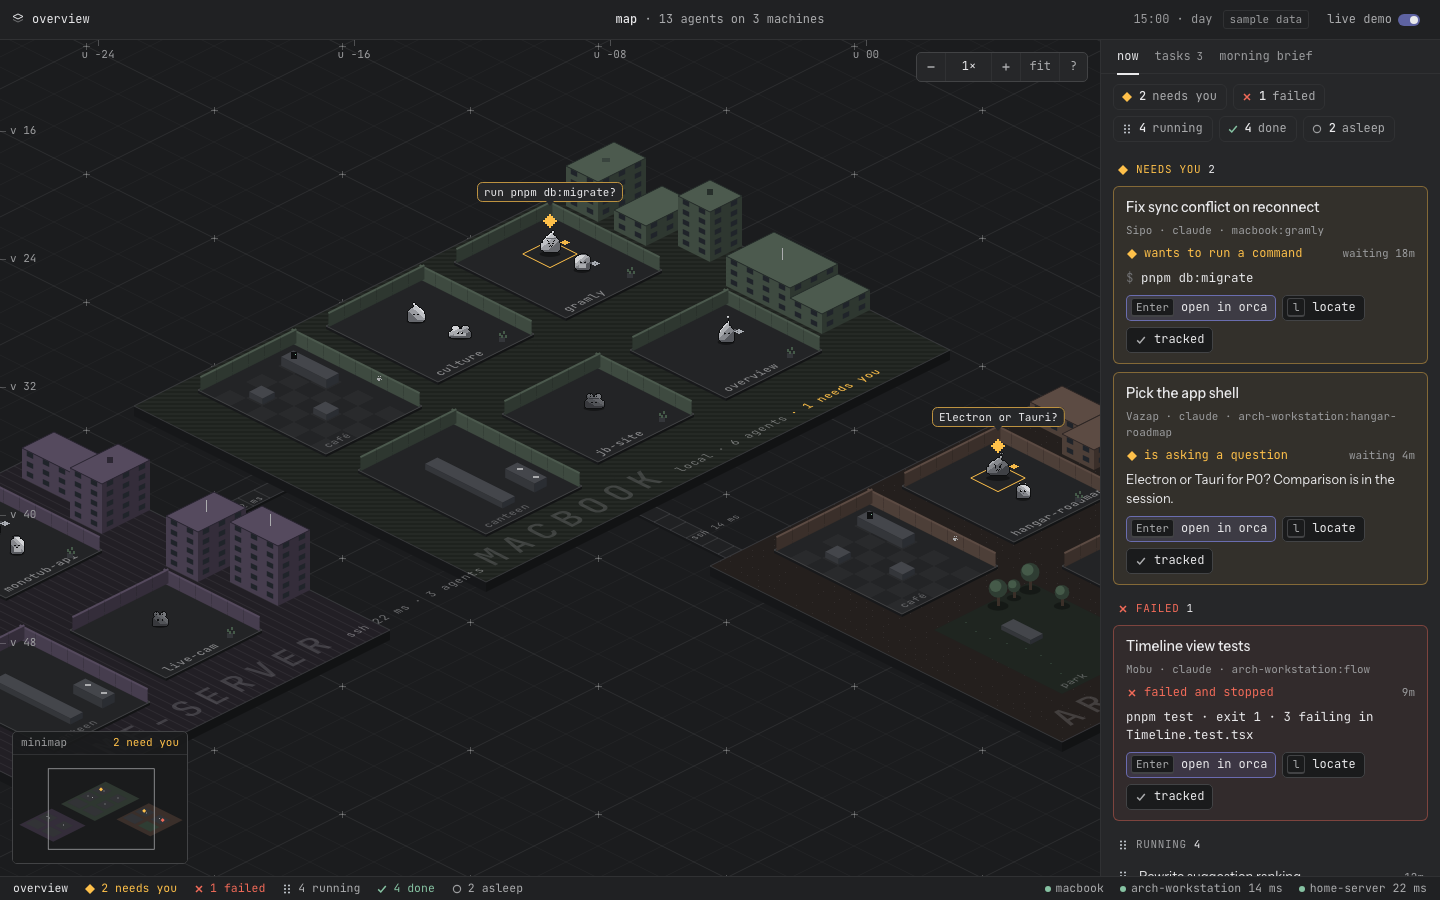
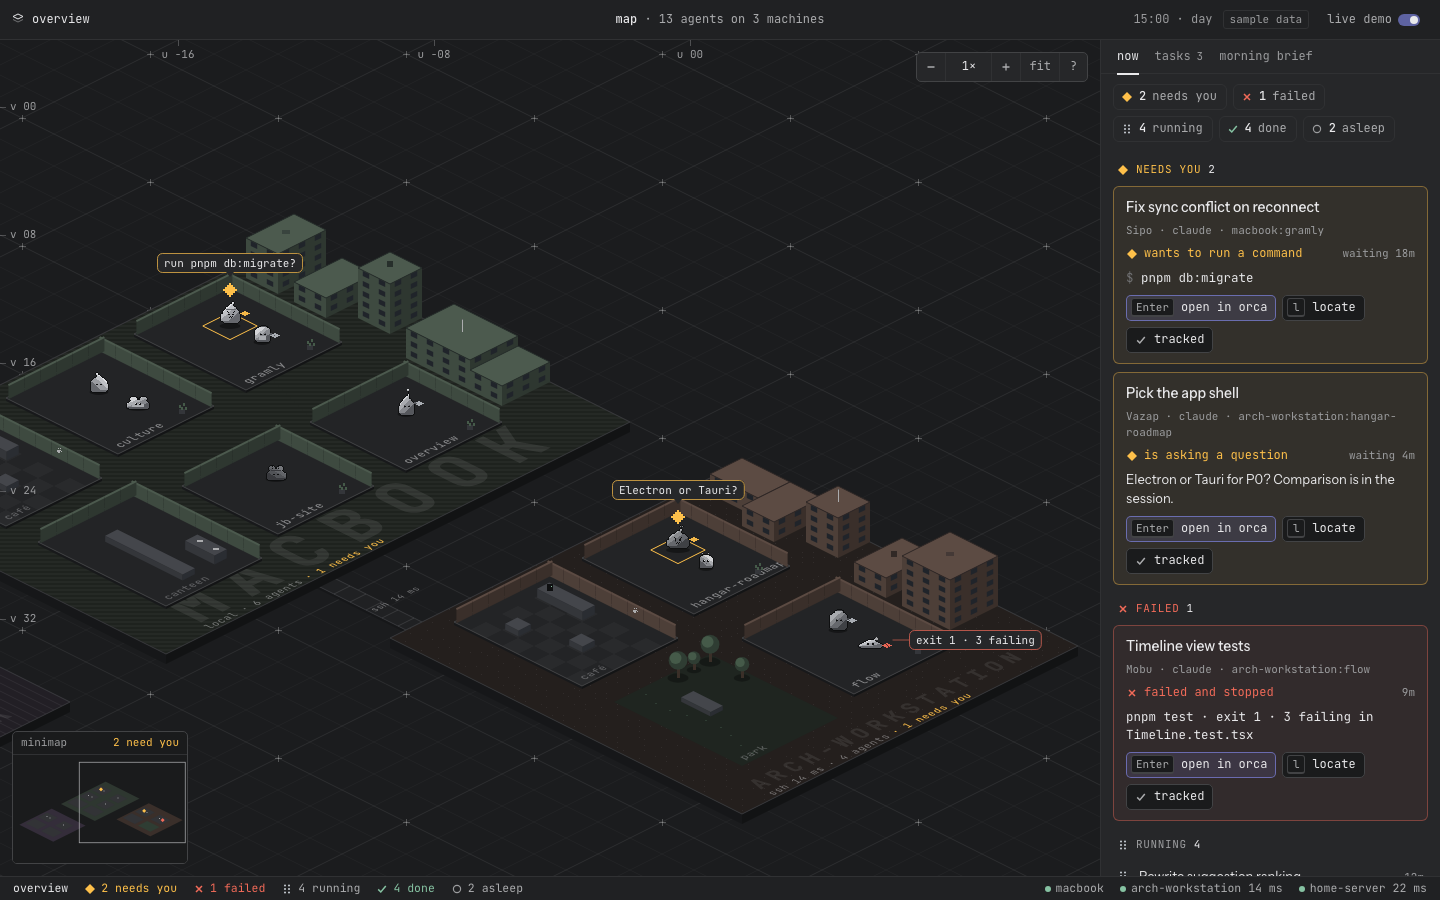
v4 review fixes: no decorative red, urgent-first opening frame, failed edge markers, calmer night, territory-sized names, spot/claim fixes, cached scenery

diff --git a/prototype/v4/js/render.js b/prototype/v4/js/render.js
@@ -25,7 +25,14 @@ export function frameTo(list, instant, minFloor) {
   const b = boundsOf(list), zMax = Math.min(G.W / G.dpr / (b.x1 - b.x0), G.H / G.dpr / (b.y1 - b.y0)); let z = G.levels[0];
   for (const l of G.levels) if (l <= zMax) z = l;
   const a = (b.x0 + b.x1) / 32, bb = (b.y0 + b.y1) / 16; G.tgt.u = (a + bb) / 2; G.tgt.v = (bb - a) / 2; G.tgt.z = z;
-  if (minFloor) { const floor = G.levels.find((l) => l >= 0.66) || G.levels[0]; if (z < floor) { G.tgt.z = floor; const w = waiting()[0]; if (w) { const fb = body(w); G.tgt.u = fb.u + 2; G.tgt.v = fb.v + 2; } } }
+  if (minFloor) {
+    const floor = G.levels.find((l) => l >= 0.66) || G.levels[0];
+    if (zMax < Math.max(z, floor)) {
+      G.tgt.z = Math.max(z, floor);
+      const urgent = G.S.filter((s) => s.state === 'wait' || s.state === 'err').map((s) => body(s)).map((b) => ({ u0: b.u - 3, v0: b.v - 3, u1: b.u + 3, v1: b.v + 3 }));
+      if (urgent.length) { const ub = boundsOf(urgent), zU = Math.min(G.W / G.dpr / (ub.x1 - ub.x0), G.H / G.dpr / (ub.y1 - ub.y0)); let z2 = G.levels[0]; for (const l of G.levels) if (l <= zU) z2 = l; G.tgt.z = Math.max(z2, floor); const a2 = (ub.x0 + ub.x1) / 32, b2 = (ub.y0 + ub.y1) / 16; G.tgt.u = (a2 + b2) / 2; G.tgt.v = (b2 - a2) / 2; }
+    }
+  }
   if (instant || reduce) Object.assign(G.cam, G.tgt);
 }
 export function fit(instant) { frameTo(G.world.hoods, instant, true); }
@@ -107,12 +114,17 @@ function slabFaces(u0, v0, u1, v1, th, cl, cr) {
   ctx.fillStyle = cl; poly([a, b, [b[0], b[1] + th], [a[0], a[1] + th]]); ctx.fill();
   ctx.fillStyle = cr; poly([b, c, [c[0], c[1] + th], [b[0], b[1] + th]]); ctx.fill();
 }
+function onScreen(u0, v0, u1, v1, pad) { const pts = [toS(u0, v0), toS(u1, v0), toS(u0, v1), toS(u1, v1)], m = (pad || 0) * G.dpr; return Math.max(...pts.map((p) => p[0])) > -m && Math.min(...pts.map((p) => p[0])) < G.W + m && Math.max(...pts.map((p) => p[1])) > -m && Math.min(...pts.map((p) => p[1])) < G.H + m; }
 function drawHood(h) {
+  if (!onScreen(h.u0, h.v0, h.u1, h.v1, 200)) return;
   const T = TINTS[h.tint], dpr = G.dpr, th = Math.max(4, Math.round(10 * G.cam.z)) * dpr;
   slabFaces(h.u0, h.v0, h.u1, h.v1, th, N(C.islandL), N(C.islandR));
   rhombus(h.u0, h.v0, h.u1, h.v1); ctx.fillStyle = N(T.ground); ctx.fill();
   ctx.save(); rhombus(h.u0, h.v0, h.u1, h.v1); ctx.clip(); ctx.globalAlpha = TEX[h.tex] || 0.07; ctx.fillStyle = C.fg; ctx.strokeStyle = C.fg; ctx.lineWidth = dpr;
-  if (h.tex === 'dots' || h.tex === 'stipple') { const st = h.tex === 'dots' ? 0.5 : 0.34; for (let u = h.u0; u <= h.u1; u += st) for (let v = h.v0; v <= h.v1; v += st) { if (h.tex === 'stipple' && (hash(u + ':' + v) & 3)) continue; const q = toS(u, v); ctx.fillRect(Math.round(q[0]), Math.round(q[1]), dpr, dpr); } }
+  if (h.tex === 'dots' || h.tex === 'stipple') {
+    if (!h.dots) { h.dots = []; const st = h.tex === 'dots' ? 0.5 : 0.34; for (let u = h.u0; u <= h.u1; u += st) for (let v = h.v0; v <= h.v1; v += st) if (h.tex === 'dots' || !(hash(u.toFixed(2) + ':' + v.toFixed(2)) & 3)) h.dots.push(u, v); }
+    for (let i = 0; i < h.dots.length; i += 2) { const q = toS(h.dots[i], h.dots[i + 1]); if (q[0] < 0 || q[1] < 0 || q[0] > G.W || q[1] > G.H) continue; ctx.fillRect(Math.round(q[0]), Math.round(q[1]), dpr, dpr); }
+  }
   else if (h.tex === 'hatch') { ctx.beginPath(); for (let s = h.u0 + h.v0; s <= h.u1 + h.v1; s += 0.5) line(s - h.v0, h.v0, s - h.v1, h.v1); ctx.stroke(); }
   else if (h.tex === 'lines') { ctx.beginPath(); for (let v = h.v0; v <= h.v1; v += 0.5) line(h.u0, v, h.u1, v); ctx.stroke(); }
   else { ctx.beginPath(); for (let u = h.u0; u <= h.u1; u++) line(u, h.v0, u, h.v1); for (let v = h.v0; v <= h.v1; v++) line(h.u0, v, h.u1, v); ctx.stroke(); }
@@ -120,10 +132,13 @@ function drawHood(h) {
   rhombus(h.u0, h.v0, h.u1, h.v1); ctx.strokeStyle = N(C.islandEdge); ctx.lineWidth = dpr; ctx.stroke();
   // the machine's name, painted big and faint along the front-right edge
   const sessions = G.S.filter((s) => hostOf(s).id === h.h.id), need = sessions.filter((s) => s.state === 'wait').length;
-  const len = groundText(h.h.name.toUpperCase(), h.u1 - 0.75, h.v1 - 1.2, 1.9, C.fg, 0.16, 500, 0.45);
+  const name = h.h.name.toUpperCase(), edge = h.v1 - h.v0;
+  if (!h.nameSize) { ctx.font = '500 20px ' + FONT.mono; let wsum = 0; for (const ch of name) wsum += ctx.measureText(ch).width; h.nameSize = Math.min(4.2, (0.8 * edge) / (wsum / 20 + 0.3 * name.length)); }
+  const ns = h.nameSize;
+  groundText(name, h.u1 - 0.95, h.v1 - 0.1 * edge, ns, C.fg, 0.09, 600, 0.3 * ns);
   const sub = h.h.sub + (h.h.lat ? ' ' + h.h.lat : '') + ' · ' + sessions.length + ' agents';
-  const l2 = groundText(sub, h.u1 - 0.75, h.v1 - 1.2 - len - 0.6, 0.62, C.fg, 0.42, 400, 0.05);
-  if (need) groundText('· ' + need + ' needs you', h.u1 - 0.75, h.v1 - 1.2 - len - 0.6 - l2 - 0.35, 0.62, C.wait, 0.95, 500, 0.05);
+  const l2 = groundText(sub, h.u1 - 0.18, h.v1 - 0.1 * edge, 0.55, C.fg, 0.45, 400, 0.04);
+  if (need) groundText('· ' + need + ' needs you', h.u1 - 0.18, h.v1 - 0.1 * edge - l2 - 0.3, 0.55, C.wait, 0.95, 500, 0.04);
 }
 function drawBridge(br) {
   const c0 = br.cells[0], c1 = br.cells[br.cells.length - 1], u0 = c0[0], v0 = c0[1], u1 = c1[0] + 1, v1 = c1[1] + 1, dpr = G.dpr;
@@ -171,18 +186,19 @@ function buildingThing(b, h, list) {
   list.push({ d: b.u + b.w - 1 + b.v + b.d - 1 + 0.4, draw: () => {
     box(b.u, b.v, b.w, b.d, b.h, N(T.roof), N(T.wall), N(T.wallShade), N(shade(T.wallShade, 0.3)));
     const lit = G.night > 0.15, glass = N(C.windowDay);
+    if (!b.litMap) { b.litMap = {}; for (let fi = 0; fi < 2; fi++) for (let x = 0; x < (fi ? b.d : b.w); x++) for (let y = 0; y < b.h; y++) b.litMap[fi + ':' + x + ':' + y] = (hash(b.seed + ':' + fi + x + ':' + y) % 100) < 20; }
     const leftFace = (x) => toS(b.u + x, b.v + b.d), rightFace = (x) => toS(b.u + b.w, b.v + b.d - x);
     for (let fi = 0; fi < 2; fi++) {
       const face = fi ? rightFace : leftFace, len = fi ? b.d : b.w;
       for (let x = 0; x < len; x++) for (let y = 0; y < b.h - 0.5; y++) {
-        const on = lit && (hash(b.seed + ':' + fi + x + ':' + y) % 100) < 45;
-        ctx.fillStyle = on ? C.windowLit : glass; ctx.globalAlpha = on ? 0.85 : 1;
+        const on = lit && b.litMap[fi + ':' + x + ':' + y];
+        ctx.fillStyle = on ? C.windowLit : glass; ctx.globalAlpha = on ? 0.5 : 1;
         poly(faceQuad(face, x + 0.3, x + 0.7, y + 0.45, y + 0.95)); ctx.fill(); ctx.globalAlpha = 1;
       }
     }
     const k = P(), rp = up(toS(b.u + b.w / 2, b.v + b.d / 2), b.h);
     if (b.roof === 'ac') R(rp[0] - 4 * k, rp[1] - 4 * k, 8 * k, 4 * k, N(shade(T.roof, 0.3)));
-    else if (b.roof === 'antenna') { R(rp[0], rp[1] - 12 * k, k, 12 * k, N(C.dim)); if (Math.floor(G.t * 1.2) % 2) R(rp[0], rp[1] - 13 * k, k, k, C.err); }
+    else if (b.roof === 'antenna') { R(rp[0], rp[1] - 12 * k, k, 12 * k, N(C.dim)); R(rp[0], rp[1] - 13 * k, k, k, N(C.faint)); }
     else if (b.roof === 'tank') { R(rp[0] - 3 * k, rp[1] - 7 * k, 6 * k, 6 * k, N(shade(T.wallShade, 0.2))); R(rp[0] - 4 * k, rp[1] - 8 * k, 8 * k, k, N(T.roof)); }
   } });
 }
@@ -333,20 +349,25 @@ export function draw(t) {
 
 /* ---------------- overlays: edge markers, tooltip, minimap ---------------- */
 const edgesEl = document.getElementById('edges'), edgeEls = {};
+const CROSS = '<svg class="i" viewBox="0 0 12 12" aria-hidden="true"><path d="M3 3l6 6M9 3 3 9" stroke="var(--err)" stroke-width="1.5"/></svg>';
 export const DIAM = '<svg class="i" viewBox="0 0 12 12" aria-hidden="true"><path d="M6 1 11 6 6 11 1 6Z" fill="var(--wait)"/></svg>';
 export function edgeMarkers(onLocate) {
   const cw = G.W / G.dpr, ch = G.H / G.dpr, pad = 26, seen = {};
   for (const s of G.S) {
-    if (s.state !== 'wait' || !G.boxes[s.id]) continue;
+    if ((s.state !== 'wait' && s.state !== 'err') || !G.boxes[s.id]) continue;
     const b = G.boxes[s.id], x = b.fx / G.dpr, y = (b.y + b.h / 2) / G.dpr;
     if (x > 0 && x < cw && y > 0 && y < ch) continue;
     seen[s.id] = 1;
     const cx = cw / 2, cy = ch / 2, dx = x - cx, dy = y - cy, sc = Math.min((cw / 2 - pad - 60) / Math.abs(dx || 1e-6), (ch / 2 - pad - 34) / Math.abs(dy || 1e-6)), ang = Math.atan2(dy, dx) * 180 / Math.PI;
     let el = edgeEls[s.id];
     if (!el) { el = document.createElement('button'); el.type = 'button'; el.className = 'edge'; el.addEventListener('click', () => onLocate(s.id)); edgesEl.appendChild(el); edgeEls[s.id] = el; }
-    const label = DIAM + '<span>' + s.plot + '</span> ' + fmt(s.since) + '<svg class="ar" viewBox="0 0 10 10" style="transform:rotate(' + ang.toFixed(0) + 'deg)" aria-hidden="true"><path d="M2 5h6M5.5 2.5 8 5 5.5 7.5" fill="none" stroke="var(--dim)" stroke-width="1.2"/></svg>';
+    el.classList.toggle('err', s.state === 'err');
+    const label = (s.state === 'err' ? CROSS : DIAM) + '<span>' + s.plot + '</span> ' + fmt(s.since) + '<svg class="ar" viewBox="0 0 10 10" style="transform:rotate(' + ang.toFixed(0) + 'deg)" aria-hidden="true"><path d="M2 5h6M5.5 2.5 8 5 5.5 7.5" fill="none" stroke="var(--dim)" stroke-width="1.2"/></svg>';
     if (el._l !== label) { el.innerHTML = label; el._l = label; el.setAttribute('aria-label', s.plot + ' needs you, off screen. Go to it.'); }
-    el.style.left = (cx + dx * sc) + 'px'; el.style.top = (cy + dy * sc) + 'px';
+    let ex = cx + dx * sc, ey = cy + dy * sc;
+    const sr = stage.getBoundingClientRect();
+    stage.querySelectorAll('.zoom, .mini').forEach((ov) => { const r = ov.getBoundingClientRect(), x0 = r.left - sr.left - 70, x1 = r.right - sr.left + 70, y0 = r.top - sr.top - 16, y1 = r.bottom - sr.top + 16; if (ex > x0 && ex < x1 && ey > y0 && ey < y1) { if (ov.classList.contains('zoom')) ey = y1 + 4; else ey = y0 - 4; } });
+    el.style.left = ex + 'px'; el.style.top = ey + 'px';
   }
   for (const id in edgeEls) if (!seen[id]) { edgeEls[id].remove(); delete edgeEls[id]; }
 }

diff --git a/prototype/v4/js/life.js b/prototype/v4/js/life.js
@@ -19,7 +19,7 @@ export function body(s) {
 }
 function home(s) { return W().offices[s.plot].hood; }
 function hoodOf(b) { return hoodAt(W(), b.u, b.v); }
-function goTo(b, u, v) { const p = findPath(W(), b.u, b.v, u, v); b.path = p || []; return !!p; }
+function goTo(b, u, v) { const p = findPath(W(), b.u, b.v, u, v); b.path = p || []; if (!p) { leave(b); b.noPath = true; } return !!p; }
 function claim(b, spot) { leave(b); spot.occ = b.id; b.spot = spot; }
 function leave(b) { if (b.spot && b.spot.occ === b.id) b.spot.occ = null; b.spot = null; b.seated = false; }
 function freeSpot(room, kind) { if (!room) return null; const free = room.spots.filter((x) => (!kind || x.kind === kind) && !x.occ); return free.length ? free[Math.floor(Math.random() * free.length)] : null; }
@@ -125,7 +125,7 @@ export function onStateChange(s, prev) {
     emote(b, 'bang', 1.5);
     const friends = G.S.filter((o) => o.state === 'done' && o.id !== s.id).sort((a, c) => affinity(s.id, c.id) - affinity(s.id, a.id)).slice(0, 2);
     const room = W().offices[s.plot];
-    friends.forEach((f, i) => { const fb = body(f), spot = room.visit.find((sp) => !sp.occ) || room.visit[i % room.visit.length]; leave(fb); if (spot) { claim(fb, spot); goTo(fb, spot.u, spot.v); fb.act = { type: 'comfort', friend: s.id, until: Infinity, stay: 6, label: 'comforting ' + gene(s.id).name }; } });
+    friends.forEach((f) => { const fb = body(f), spot = room.visit.find((sp) => !sp.occ); if (spot) { leave(fb); claim(fb, spot); goTo(fb, spot.u, spot.v); fb.act = { type: 'comfort', friend: s.id, until: Infinity, stay: 6, label: 'comforting ' + gene(s.id).name }; } });
   } else if (s.state === 'wait' || (prev === 'idle' && wantsDesk(s))) emote(b, 'bang', 1.6);
 }
 
@@ -137,7 +137,7 @@ export function settle() {
     b.atDesk = false;
     if (b.spot) continue;
     const hm = home(s), room = s.state === 'idle' ? (hm.park || hm.cafe) : (hm.cafe || hm.canteen || hm.park);
-    const spot = room && (freeSpot(room, s.state === 'idle' ? 'bench' : 'seat') || freeSpot(room));
+    const spot = room && (freeSpot(room, s.state === 'idle' ? 'bench' : 'seat') || freeSpot(room, 'seat') || freeSpot(room, 'bench'));
     if (spot) { claim(b, spot); b.u = spot.u; b.v = spot.v; b.seated = spot.kind === 'seat' || spot.kind === 'bench'; b.face = spot.face; b.act = { type: s.state === 'idle' ? 'sleep' : 'sit', room, until: Infinity, label: s.state === 'idle' ? 'asleep' : 'having a coffee' }; }
   }
 }
@@ -158,13 +158,14 @@ export function simulate(dt, t) {
     if (b.act.type === 'desk') b.act = { type: 'none', until: 0 };
     if (b.act.type === 'celebrate') { if (t < b.act.until) continue; b.act = { type: 'none', until: 0 }; }
     if (s.state === 'idle') {
-      if (b.act.type !== 'sleep') { const hm = home(s), room = hm.park || hm.cafe, spot = room && (freeSpot(room, 'bench') || freeSpot(room, 'seat') || freeSpot(room)); if (spot) { claim(b, spot); goTo(b, spot.u, spot.v); } b.act = { type: 'sleep', until: Infinity, label: 'asleep' }; }
+      if (b.act.type !== 'sleep') { const hm = home(s), room = hm.park || hm.cafe, spot = room && (freeSpot(room, 'bench') || freeSpot(room, 'seat')); if (spot) { claim(b, spot); if (!goTo(b, spot.u, spot.v)) leave(b); } b.act = { type: 'sleep', until: Infinity, label: 'asleep' }; }
       if (stepAlong(b, s, dt) && b.spot) { b.seated = true; b.face = b.spot.face; }
       continue;
     }
     if (b.act.type === 'sleep') b.act = { type: 'none', until: 0 };
     if (b.path.length) { stepAlong(b, s, dt); b.seated = false; waveCheck(b, t); continue; }
     b.moving = false;
+    if (b.noPath) { b.noPath = false; b.act = { type: 'pause', until: t + 1, label: 'looking around' }; continue; }
     // arrived somewhere: start the stay timer
     if (b.act.until === Infinity) {
       if (b.act.type === 'cafe' && b.act.phase === 'counter') {

diff --git a/prototype/v4/js/core.js b/prototype/v4/js/core.js
@@ -25,7 +25,7 @@ export const C = {
   islandL: '#161719', islandR: '#121314', islandEdge: '#38393c', bridgeTop: '#202123',
   gridMinor: 'rgba(233,233,235,0.035)', gridMajor: 'rgba(233,233,235,0.085)', cross: 'rgba(233,233,235,0.28)', tick: 'rgba(233,233,235,0.25)', plank: 'rgba(233,233,235,0.12)',
   shadow: 'rgba(0,0,0,0.38)', creatureInk: '#0e0f10', slabRim: '#3b3c3f', slabCursor: '#5a5c60', slabCrack: '#5c211a', minimapPlate: '#323336',
-  windowDay: '#20242a', windowLit: '#b9a77a', park: '#1f2520', treeDark: '#2f3d33', treeLight: '#455a49', trunk: '#3a2f28',
+  windowDay: '#20242a', windowLit: '#8e8774', park: '#1f2520', treeDark: '#2f3d33', treeLight: '#455a49', trunk: '#3a2f28',
   furniture: '#34363a', furnitureTop: '#44464b', night: '#0d1018'
 };
 export const TEX = { dots: 0.12, hatch: 0.08, grid: 0.07, commonsEdge: 0.18 };

diff --git a/prototype/v4/app.css b/prototype/v4/app.css
@@ -176,3 +176,5 @@ svg.i { width: 12px; height: 12px; flex: none; display: inline-block; vertical-a
 
 .clock { font-family: var(--mono); font-size: 12px; color: var(--subtle); white-space: nowrap; font-variant-numeric: tabular-nums; }
 @media (max-width: 860px) { .clock { display: none; } }
+.edge.err { border-color: var(--sg-status-err-border); }
+.edge.err span { color: var(--err); }

diff --git a/.impeccable/surfaces/prototype-overview-map-html.md b/.impeccable/surfaces/prototype-overview-map-html.md
@@ -5,7 +5,7 @@ primary_target: "prototype/overview-map.html"
 related_targets: []
 ---
 
-# Surface brief: the map (prototype/overview-map.html)
+# Surface brief: the map (prototype/v4/, formerly prototype/overview-map.html)
 
 Scope: Overview's main screen. Mode: Operate (a working monitor the owner opens during the day, pans, then returns to Orca).
 
@@ -38,6 +38,17 @@ Unresolved: whether plot positions mean something (for example, recency) or are 
 - The rail adds state filter chips and a tasks tab. It is a tracker the owner checks off; it only tracks and never writes to an agent (owner's choice). Waiting and failed sessions become tasks automatically, and brief items have a track button. When the agent moves on, the task shows "agent moved on · mark done".
 - Colours and faces now come from Signal (@barrymind/signal 0.1.1, vendored in prototype/vendor/signal). The map aliases them and the canvas reads them at boot.
 - Machine labels are optional: when no spot fits, they step aside rather than cover a callout.
+
+## v4 changes (owner requests, 2026-11-05)
+
+- Build moved to `prototype/v4/` as ES modules (core, creatures, world, life, render, ui). v3 stays as history.
+- Neighborhoods are generated per machine from its id: a muted tint (one of slate, sage, clay, plum, sand), a ground texture, a skyline of closed buildings with windows and roof props, project offices as low open-front rooms, a café, and a canteen or a park. Streets between lots, and bridges with the SSH latency.
+- The owner chose "Muted tints": low-chroma hues only on terrain, walls and roofs, and status stays the only saturated colour. Tints live in Signal as `overview.color.hood.*`.
+- Names are painted on the ground in perspective, big and faint, like a country name on a map (the owner's reference image). That covers the machine name plus its sub-line and needs-you count, project names on office floors, café, canteen and park. Floating machine and project labels are gone; only callouts and speech float.
+- Life: social pull toward occupied rooms; café visits (counter, then a seat), lunch rush at the canteen during real lunch hours, park naps, street chats, greeting friends at work, comforting a friend who failed, and celebrating a finish. Waves happen when creatures pass each other, and friendship grows with time spent talking.
+- Conversations: groups that share a room or stand close take turns speaking. Lines come from the real sessions (status gossip, the speaker's own work), small talk, or a reply to a question. Words show from 1.5x zoom; below that a glyph bubble shows instead. Speech uses the label placer at the lowest priority and never covers a callout.
+- Expressions: focus at the desk, worried while waiting, surprised on "!", happy when free, closed when asleep, x when melted. Plus emotes (coffee, food, heart, star, wave, note, ?, !), a sweat drop on failure, and squash on landing.
+- Day and night follow the real clock (override with ?hour=). Terrain and buildings shade toward night, and windows light warm; creatures and status colours are never shaded. A clock in the title bar shows the time and part of day.
 
 ## Direction contract
 
